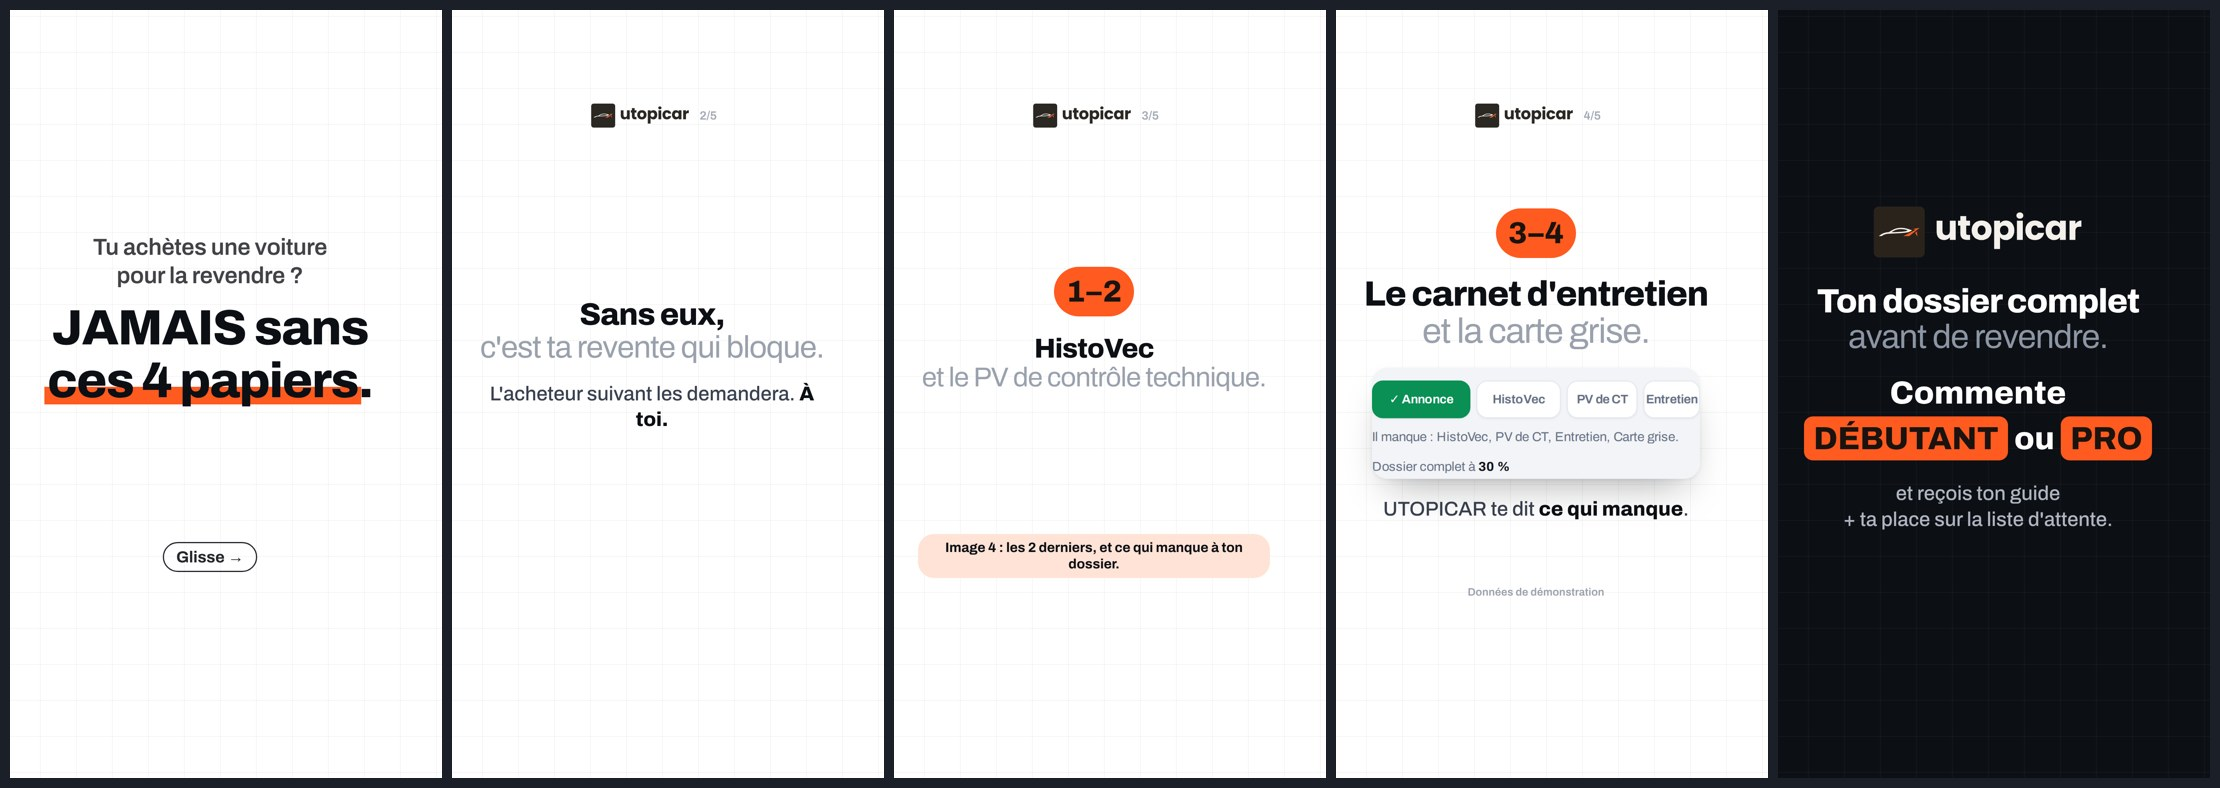
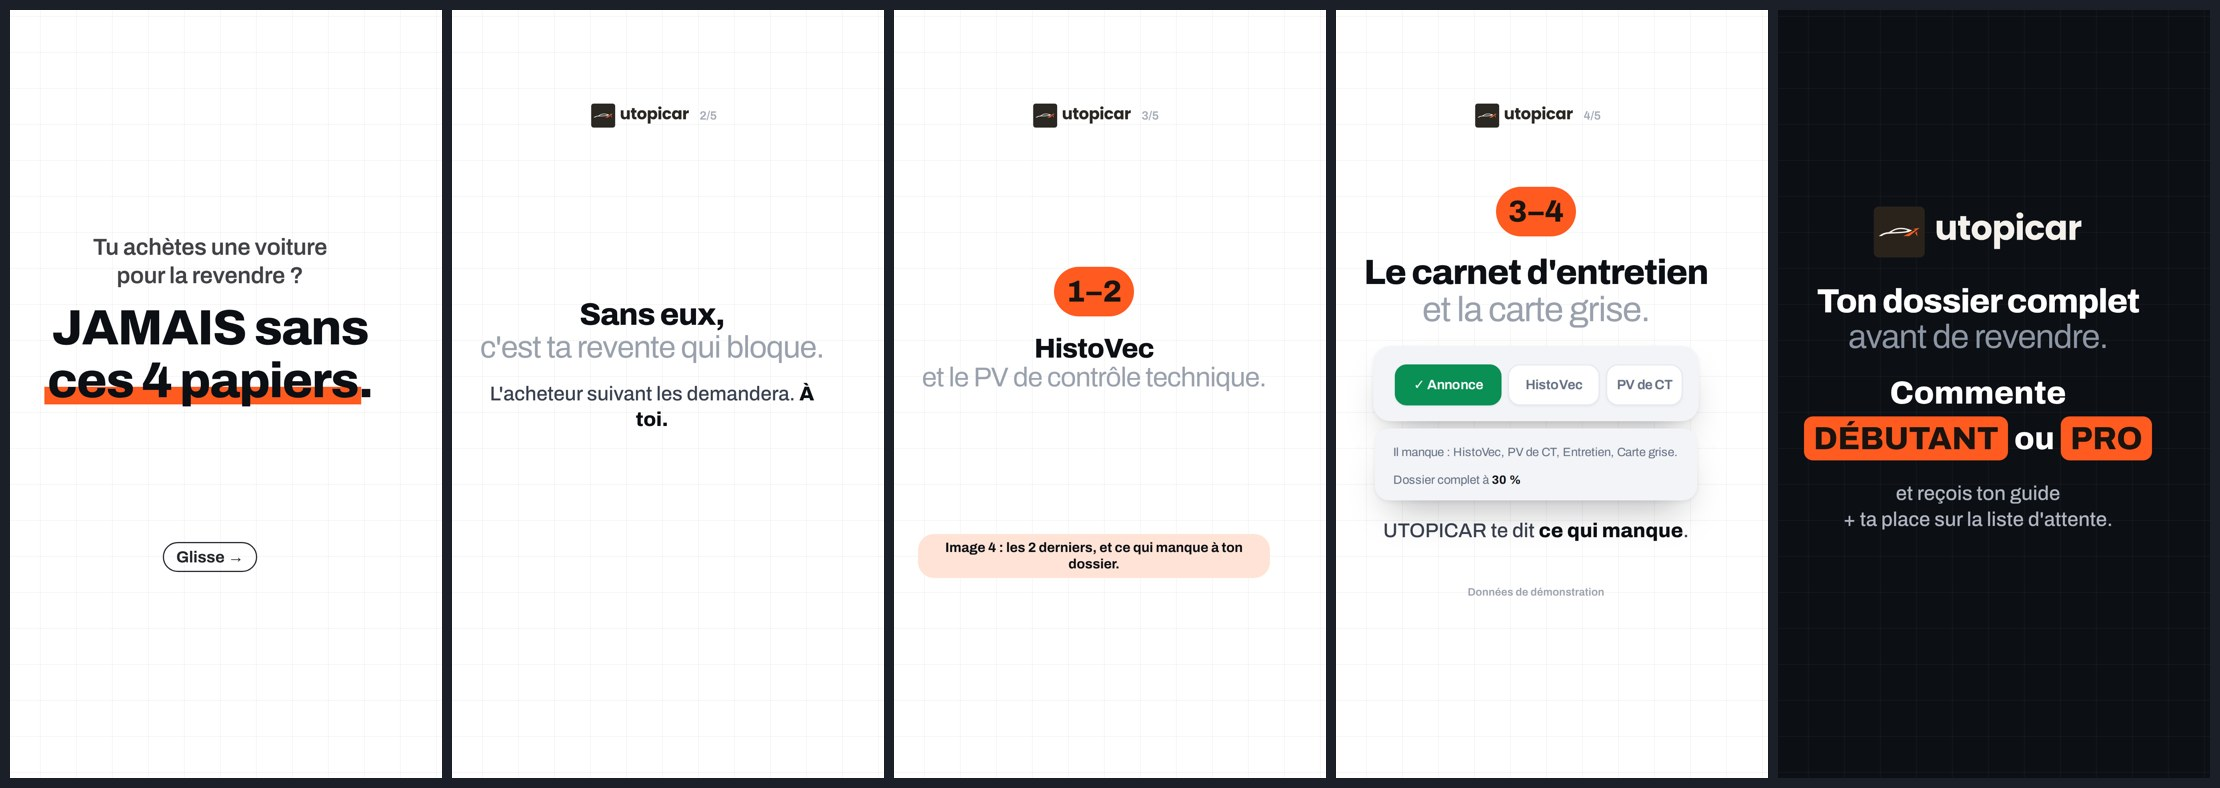
Carrousels : recadrages sans contenu collé au bord (contrôle automatique audit-crops.py, 0 défaut) ; dossier en deux cartes nettes, formulaire de recherche entier
Claude-Session: https://claude.ai/code/session_01FEy7LKaW7Hm3ZRZRRVomsp

Changed region(s): [[0.5905, 0.2132, 0.777, 0.7005]]

diff --git a/video/carousels/slide.html b/video/carousels/slide.html
@@ -83,6 +83,7 @@ async function ui(parent, spec) {
   const box = el('div', 'ui', parent);
   Object.assign(box.style, { width: r[2] * k + 2 * pad + 'px', height: r[3] * k + 2 * pad + 'px', borderRadius: (spec.rad ?? 22) * k + 'px' });
   if (spec.bare) { box.style.background = 'transparent'; box.style.boxShadow = 'none'; }
+  if (spec.bgc) box.style.background = spec.bgc;   // marge intérieure de la couleur du fond de la capture
   const c = el('div', 'img', box);
   Object.assign(c.style, { left: pad + 'px', top: pad + 'px', width: r[2] * k + 'px', height: r[3] * k + 'px', backgroundImage: `url(${im.url})`,
     backgroundSize: `${im.w / DPR * k}px ${im.h / DPR * k}px`, backgroundPosition: `${-r[0] * k}px ${-r[1] * k}px` });

diff --git a/video/scripts/audit-crops.py b/video/scripts/audit-crops.py
@@ -1,0 +1,40 @@
+"""Contrôle des recadrages de captures (carrousels) : rien ne doit toucher le bord d'une carte.
+Pour chaque morceau de capture (r = [x, y, w, h] en px CSS, ×3 dans le PNG), on regarde une bande de 5 px CSS le long
+de chaque bord, à l'intérieur du recadrage : un pixel « contenu » s'écarte nettement du fond de la bande (texte,
+pastille, icône). La marge intérieure (pad) ajoutée par le gabarit compte comme de l'espace libre.
+usage : python3 scripts/audit-crops.py [--fix]  → liste des recadrages à revoir."""
+import json, os, sys
+import numpy as np
+from PIL import Image
+ROOT = os.path.dirname(os.path.dirname(os.path.abspath(__file__)))
+UI1 = ['scan', 'launch', 'card-lv1', 'lg1', 'lg2', 'lg3', 'lg4', 'lg5', 'lg6', 'dock-scan']
+D = json.load(open(os.path.join(ROOT, 'carousels/carousels.json')))['carousels']
+cache = {}
+def img(k):
+    if k not in cache:
+        cache[k] = np.asarray(Image.open(os.path.join(ROOT, 'assets', 'ui' if k in UI1 else 'ui2', k + '.png')).convert('L')).astype(float)
+    return cache[k]
+BAND, NEED = 5, 10   # px CSS : bande contrôlée, espace libre voulu entre le contenu et le bord de la carte
+bad = []
+for ci, c in enumerate(D):
+    for si, s in enumerate(c['slides']):
+        for u in (s.get('ui') or []):
+            for spec in (u if isinstance(u, list) else [u]):
+                a = img(spec['ui']); H, W = a.shape
+                x, y, w, h = spec['r'] or [0, 0, W / 3, H / 3]
+                X0, Y0, X1, Y1 = [int(round(v * 3)) for v in (x, y, x + w, y + h)]
+                crop = a[Y0:Y1, X0:X1]
+                pad = spec.get('pad') or 0
+                if spec.get('bare'): continue
+                # distance (px CSS) entre le bord du recadrage et le premier contenu, par côté
+                def free(side):
+                    for d in range(0, NEED * 3):
+                        line = {'l': crop[:, d], 'r': crop[:, -1 - d], 't': crop[d, :], 'b': crop[-1 - d, :]}[side]
+                        ref = np.median(line)
+                        if (np.abs(line - ref) > 70).mean() > 0.01: return d / 3
+                    return NEED
+                gaps = {k: free(k) + pad for k in 'lrtb'}
+                low = {k: round(v, 1) for k, v in gaps.items() if v < 8}
+                if low: bad.append((f"{ci + 1:02d}-{c['slug']} image {si + 1}", spec['ui'], spec['r'], pad, low))
+for b in bad: print(*b)
+print(f'{len(bad)} recadrage(s) à revoir')

diff --git a/video/carousels/build.py b/video/carousels/build.py
@@ -17,11 +17,13 @@ PLAF = lambda w=820: U('plaf', [8, 8, 320, 130], w, [[18, 50, 108, 30]])
 LG = lambda n, w=820: U(f'lg{n}', None, w, rad=10, pad=10)
 LU = lambda w=820: U('lu', [8, 8, 332, 144], w)
 TEXTE = lambda w=820: U('scan', [25, 955, 357, 207], w, rad=20, pad=12)
-DOSSIER = lambda w=860: U('scan', [14, 200, 330, 112], w, rad=16)
+# bloc « dossier » de l'écran Analyser (capture mobile) en deux cartes : les pastilles entières, puis le texte.
+# Les pastilles suivantes (« Entretien », « Carte grise ») sont écrasées par l'interface en 390 px : on ne les montre pas.
+DOSSIER = lambda w=760: [U('scan', [4, 206, 282, 50], w, rad=16, pad=10, bgc='#F2F4F7'), U('scan', [4, 254, 330, 58], w, rad=16, pad=10, bgc='#F2F4F7')]
 LIVE_PRIX = lambda w=840: U('card-lv1', [115, 384, 236, 86], w, [[125, 446.75, 163, 19.5]], rad=16, pad=14)
 LVMINI = lambda w=720, maxH=None: U('lvmini', [10, 10, 362, 432], w, [[125, 148, 82, 38]], maxH=maxH)
 SCHIP = lambda w=620: U('schip', [4, 4, 171, 37], w, rad=20)
-QS = lambda w=640: U('qsform', [10, 10, 362, 440], w, rad=20)
+QS = lambda w=640: U('qsform', [10, 10, 362, 480], w, rad=20)
 FILTERS = lambda w=840: U('filters', [6, 6, 366, 114], w)
 VROW = lambda n=1, w=820, days=True: U(f'vrow{n}', [2, 2, 360, 145], w, [[251, 111, 54, 19]] if days else [], rad=20)
 KPI = lambda n, w=400: U(f'kpi{n}', [8, 8, 175, 112], w, rad=18)
@@ -150,7 +152,7 @@ car('4-papiers', 'white', "N'achète jamais une voiture pour la revendre sans de
   S(kicker="Tu achètes une voiture pour la revendre ?", title="JAMAIS sans\n==ces 4 papiers==.", size=124),
   S(title="Sans eux,\n_c'est ta revente qui bloque._", body="L'acheteur suivant les demandera. **À toi.**"),
   S(num='1–2', title="HistoVec\n_et le PV de contrôle technique._", size=90, relance="Image 4 : les 2 derniers, et ce qui manque à ton dossier."),
-  S(num='3–4', title="Le carnet d'entretien\n_et la carte grise._", size=90, ui=[DOSSIER(820)], body2="UTOPICAR te dit **ce qui manque**."),
+  S(num='3–4', title="Le carnet d'entretien\n_et la carte grise._", size=90, ui=DOSSIER(), body2="UTOPICAR te dit **ce qui manque**."),
   S(title="Ton dossier complet\n_avant de revendre._"),
 ]),
 car('jours-en-stock', 'dark', "Ta voiture est garée, elle ne roule pas. Pourtant, elle te coûte de l'argent chaque jour. Tes jours en stock, voiture par voiture.", [
